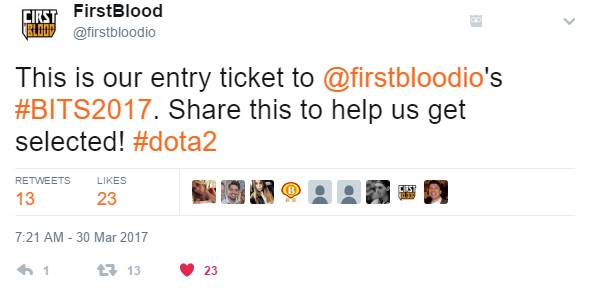
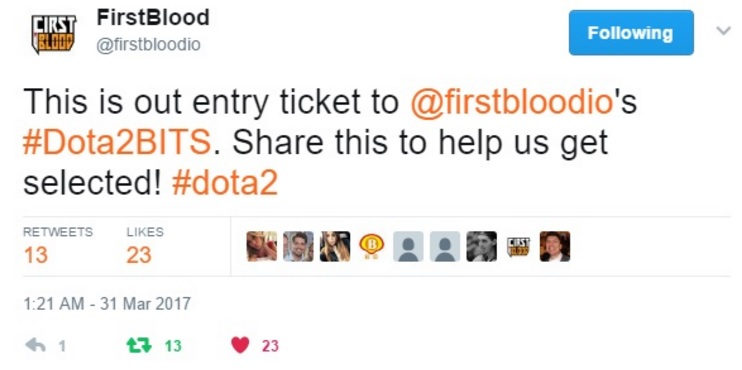
Fixed: Twitter screenshot & hashtag

diff --git a/index.html b/index.html
@@ -80,7 +80,7 @@
 						<div class="inner">
 							<header class="major">
 								<h2>Blood in the Streets&trade;<br />
-									(#Dota2BITS) <br />
+									(#playBITS) <br />
 								Dota 2 Championship</h2>
 								<p>A free-to-play, 16 team, single-elimination Dota 2 &trade; tournament.<br />
 								With a $5,000 winner-takes-all prize pool. <br />
@@ -123,8 +123,8 @@
 							<div class="image"><img src="images/pic02.jpg" alt="" /></div><div class="content">
 								<h2>Step 2: Declare your team's eligibility</h2>
 								<p>Use your team's twitter account to declare your entry into the tournament by tweeting something like this. <br /> <br />
-									"This is our entry ticket to @firstbloodio's #Dota2BITS!" <br /> <br />
-									(make sure to include @firstbloodio and #Dota2BITS)</p>
+									"This is our entry ticket to @firstbloodio's #playBITS!" <br /> <br />
+									(make sure to include @firstbloodio and #playBITS)</p>
 							</div>
 						</section>
 						<section class="spotlight">
